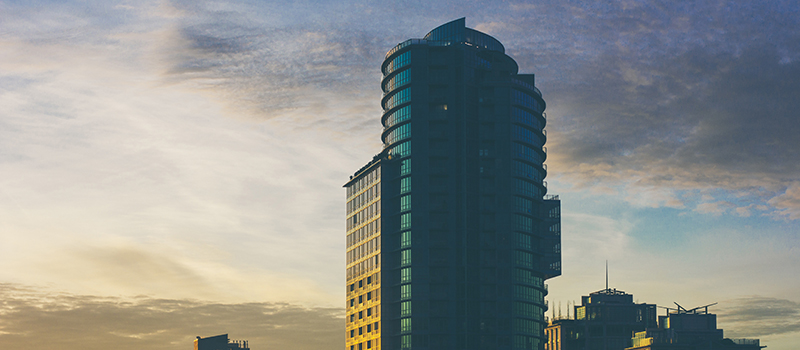
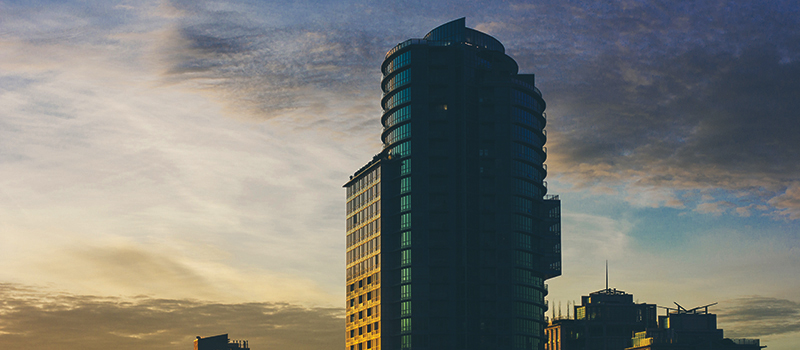
Darker imgs, new footer div

diff --git a/app/assets/stylesheets/application.css b/app/assets/stylesheets/application.css
@@ -28,6 +28,22 @@
  	text-align:center;
  }
 
+ .footerbox{
+ 	display:block;
+ 	background-color:#7DAE22;
+ 	padding: 17px;
+ 	padding-bottom: 100px;
+ 	color:white;
+ 	font-family:"Lucida Sans Unicode", "Lucida Grande", sans-serif;
+ 	margin:0;
+ 	text-align:center;
+ }
+
+ .footerbox a{
+ 	color: white;
+ }
+
+
  .img-repsonsive{
  	width: 267px;
  	height: 50px;
